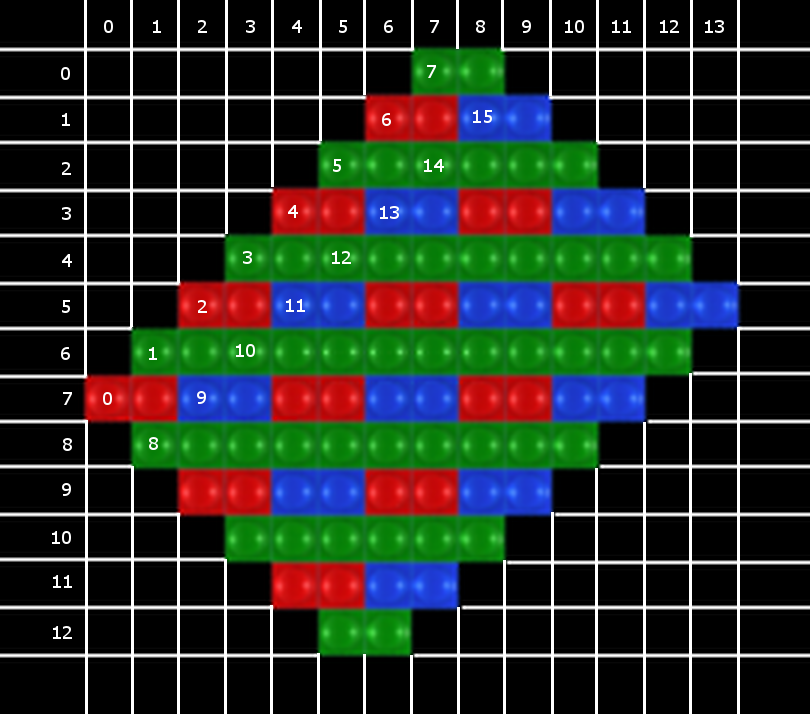
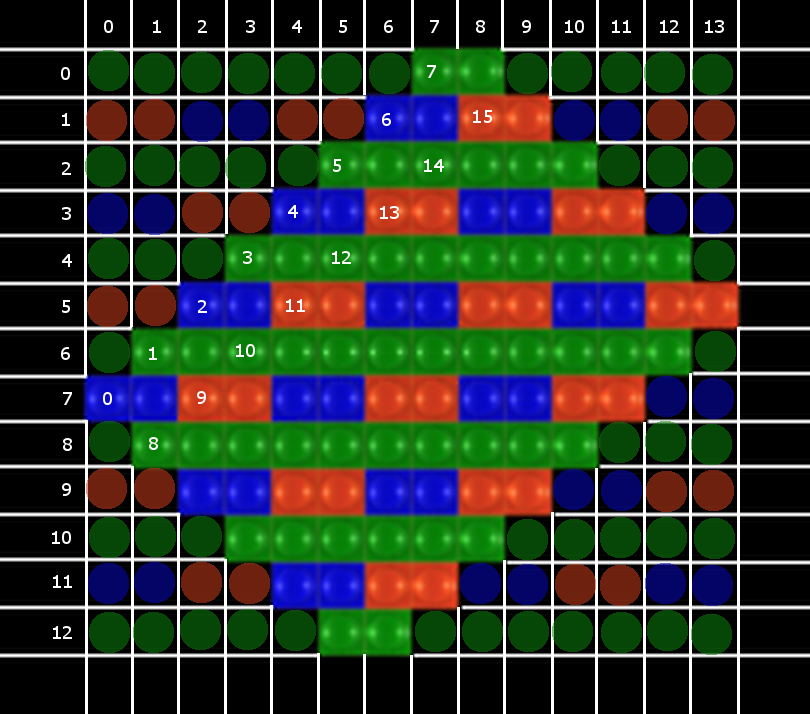
renamings; B-R channel swap in matrix image

diff --git a/libdemosaic.cpp b/libdemosaic.cpp
@@ -43,7 +43,7 @@
 */
 
 #include <algorithm>
-#include "libdemosaicking.h"
+#include "libdemosaic.h"
 
 
 #define BLANK 0
@@ -57,9 +57,8 @@
 #undef DEBUG_GREEN1
 
 /**
- * @file   libdemosaicking.cpp
- * @brief  Demosaicking functions: HAmilton-Adams algorithm, NLmeans based demosaicking, Chromatic components filtering
- *
+ * @file   libdemosaic.cpp
+ * @brief  Demosaicking functions: Hamilton-Adams algorithm, NLmeans-based demosaicking, Chromatic components filtering
  *
  *
  * @author Antoni Buades <toni.buades@uib.es>
@@ -79,7 +78,7 @@
  *
  */
 
-void demosaicking_adams(
+void adams_hamilton(
   float threshold,
   float *input,
   float *ored,
@@ -110,22 +109,13 @@ void demosaicking_adams(
         // The raw image has zeroes in all channels outside the sensor area
         if (y % 2 == 0) {
           mask[p] = GREENPOSITION;
-          // ored[p] = 500;
-          // ogreen[p] = 65535;
-          // oblue[p] = 500;
         }
         else {
           if ((x / 2 % 2 + y / 2 % 2) % 2 == 0) {
-            mask[p] = BLUEPOSITION;
-            // ored[p] = 500;
-            // ogreen[p] = 500;
-            // oblue[p] = 65535;
+            mask[p] = REDPOSITION;
           }
           else {
-            mask[p] = REDPOSITION;
-            // ored[p] = 65535;
-            // ogreen[p] = 500;
-            // oblue[p] = 500;
+            mask[p] = BLUEPOSITION;
           }
         }
       }
@@ -342,7 +332,7 @@ void demosaicking_adams(
   }
 
   // compute the bilinear on the differences of the red and blue with the already interpolated green
-  demosaicking_bilinear_red_blue(ored, ogreen, oblue, width, height, origWidth, origHeight);
+  bilinear_red_blue(ored, ogreen, oblue, width, height, origWidth, origHeight);
 
 
   free(mask);
@@ -357,12 +347,12 @@ void demosaicking_adams(
  *
  * @param[in]  ored, ogreen, oblue  original cfa image with green interpolated
  * @param[out] ored, ogreen, oblue  demosaicked output
- * @param[in]  (redx, redy)  coordinates of the red pixel: (0,0), (0,1), (1,0), (1,1)
- * @param[in]  width, height size of the image
+ * @param[in]  width, height size of the merged image
+ * @param[in]  origWidth, origHeight original image size
  *
  */
 
-void demosaicking_bilinear_red_blue(
+void bilinear_red_blue(
   float *ored,
   float *ogreen,
   float *oblue,
@@ -371,11 +361,6 @@ void demosaicking_bilinear_red_blue(
   int origWidth,
   int origHeight
 ) {
-
-
-  //Initializations
-  int bluex, redx;
-  int bluey, redy;
 
 
   // Mask of color per pixel
@@ -722,11 +707,12 @@ void demosaicking_bilinear_red_blue(
   // Make back the differences
   for (int i=0; i < width * height; i++){
     ored[i] += ogreen[i];
+    ored[i] *= 1.565476;
     oblue[i] += ogreen[i];
+    oblue[i] *= 1.845238;
   }
 
   free(mask);
-
 }
 
 
@@ -747,7 +733,7 @@ void demosaicking_bilinear_red_blue(
  */
 
 
-void demosaicking_nlmeans(int bloc, float h,int redx,int redy,float *ired,float *igreen,float *iblue,float *ored,float *ogreen,float *oblue,int width,int height)
+void demosaic_nlmeans(int bloc, float h,int redx,int redy,float *ired,float *igreen,float *iblue,float *ored,float *ogreen,float *oblue,int width,int height)
 {
 
 
@@ -998,7 +984,7 @@ void chromatic_median(int iter,int redx,int redy,int projflag,float side,float *
 
 
 
-void ssd_demosaicking_chain(
+void ssd_demosaic_chain(
   float *input,
   float *ored,
   float *ogreen,
@@ -1019,25 +1005,24 @@ void ssd_demosaicking_chain(
   float threshold = 2.0;
 
 
-  demosaicking_adams(threshold, input, ored, ogreen, oblue, width, height, origWidth, origHeight);
-  printf("demosaicking_adams() -> %f\n", ogreen[8990]);
+  adams_hamilton(threshold, input, ored, ogreen, oblue, width, height, origWidth, origHeight);
 
 //
 //
 //   h = 16.0;
-//   demosaicking_nlmeans(dbloc,h,redx,redy,ored,ogreen,oblue,ired,igreen,iblue,width,height);
+//   demosaic_nlmeans(dbloc,h,redx,redy,ored,ogreen,oblue,ired,igreen,iblue,width,height);
 //   chromatic_median(iter,redx,redy,projflag,side,ired,igreen,iblue,ored,ogreen,oblue,width,height);
 //
 //
 //
 //   h = 4.0;
-//   demosaicking_nlmeans(dbloc,h,redx,redy,ored,ogreen,oblue,ired,igreen,iblue,width,height);
+//   demosaic_nlmeans(dbloc,h,redx,redy,ored,ogreen,oblue,ired,igreen,iblue,width,height);
 //   chromatic_median(iter,redx,redy,projflag,side,ired,igreen,iblue,ored,ogreen,oblue,width,height);
 //
 //
 //
 //   h = 1.0;
-//   demosaicking_nlmeans(dbloc,h,redx,redy,ored,ogreen,oblue,ired,igreen,iblue,width,height);
+//   demosaic_nlmeans(dbloc,h,redx,redy,ored,ogreen,oblue,ired,igreen,iblue,width,height);
 //   chromatic_median(iter,redx,redy,projflag,side,ired,igreen,iblue,ored,ogreen,oblue,width,height);
 }
 

diff --git a/libdemosaic.h b/libdemosaic.h
@@ -44,8 +44,8 @@
 
 
 
-#ifndef _LIBDEMOSAICKING_H_
-#define _LIBDEMOSAICKING_H_
+#ifndef _LIBDEMOSAIC_H_
+#define _LIBDEMOSAIC_H_
 
 
 
@@ -56,7 +56,7 @@
 #include "libAuxiliary.h"
 
 /**
- * @file   libdemosaicking.cpp
+ * @file   libdemosaic.cpp
  * @brief  Demosaicking functions: HAmilton-Adams algorithm, NLmeans based demosaicking, Chromatic components filtering
  *
  *
@@ -79,7 +79,7 @@
  * @param[in]  width, height size of the image
  *
  */
-void demosaicking_adams(
+void adams_hamilton(
   float threshold,
   float *input,
   float *ored,
@@ -102,7 +102,7 @@ void demosaicking_adams(
  * @param[in]  width, height size of the image
  *
  */
-void demosaicking_bilinear_red_blue(
+void bilinear_red_blue(
   float *ored,
   float *ogreen,
   float *oblue,
@@ -130,7 +130,7 @@ void demosaicking_bilinear_red_blue(
  */
 
 
-void demosaicking_nlmeans(int bloc, float h,int redx,int redy,float *ired,float *igreen,float *iblue,float *ored,float *ogreen,float *oblue,int width,int height);
+void demosaic_nlmeans(int bloc, float h,int redx,int redy,float *ired,float *igreen,float *iblue,float *ored,float *ogreen,float *oblue,int width,int height);
 
 
 
@@ -184,7 +184,7 @@ void chromatic_median(int iter,int redx,int redy,int projflag,float side,float *
  */
 
 
-void ssd_demosaicking_chain(
+void ssd_demosaic_chain(
   float *input,
   float *ored,
   float *ogreen,

diff --git a/fuji-exr-ssd.cpp b/fuji-exr-ssd.cpp
@@ -53,12 +53,12 @@
 #include <stdlib.h>
 #include <string.h>
 
-#include "libdemosaicking.h"
+#include "libdemosaic.h"
 #include "io_tiff.h"
 #include "tiffio.h"
 
 /**
- * @file   demosaickingIpol.cpp
+ * @file   fuji-exr-ssd.cpp
  * @brief  Main executable file
  *
  *
@@ -107,7 +107,7 @@ int main(int argc, char **argv) {
 
 
   /* process */
-  ssd_demosaicking_chain(
+  ssd_demosaic_chain(
     data_in,
     data_out,
     data_out + nx * ny,
@@ -118,7 +118,7 @@ int main(int argc, char **argv) {
     origHeight
   );
 
-  printf("demosaicking_chain() -> %f\n", data_out[8990]);
+  printf("demosaic_chain() -> %f\n", data_out[8990]);
 
   /* limit to 0-65535 */
   out_ptr = data_out;

diff --git a/fuji-merge-frames.py b/fuji-merge-frames.py
@@ -6,7 +6,8 @@ import os
 import subprocess
 
 #basename = '141006_163724'
-basename = '141016_155913'
+basename = '141011_154520'
+#basename = '141016_155913'
 frame = []
 
 for fn in ['0', '1']:
